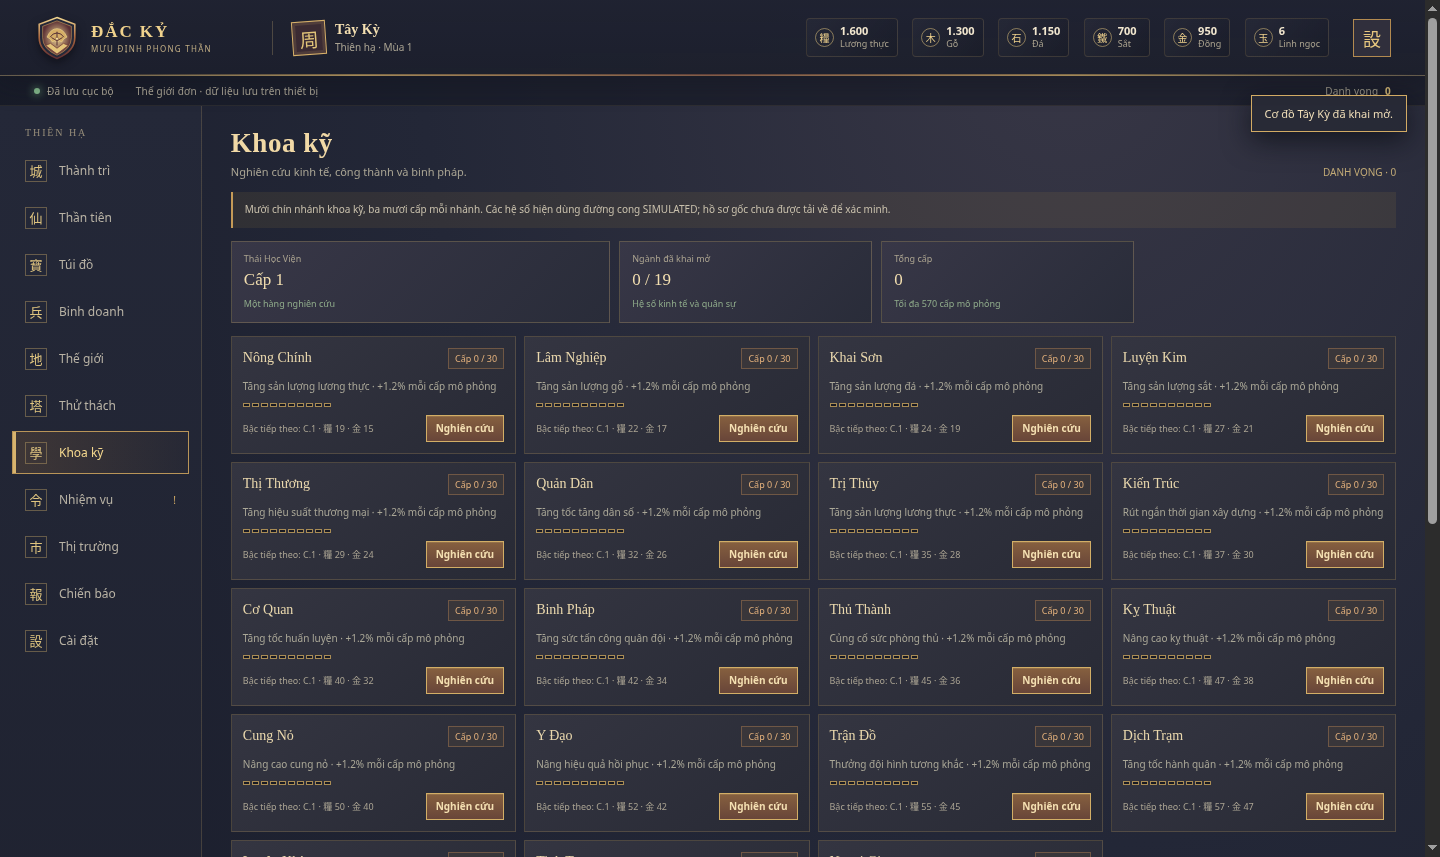
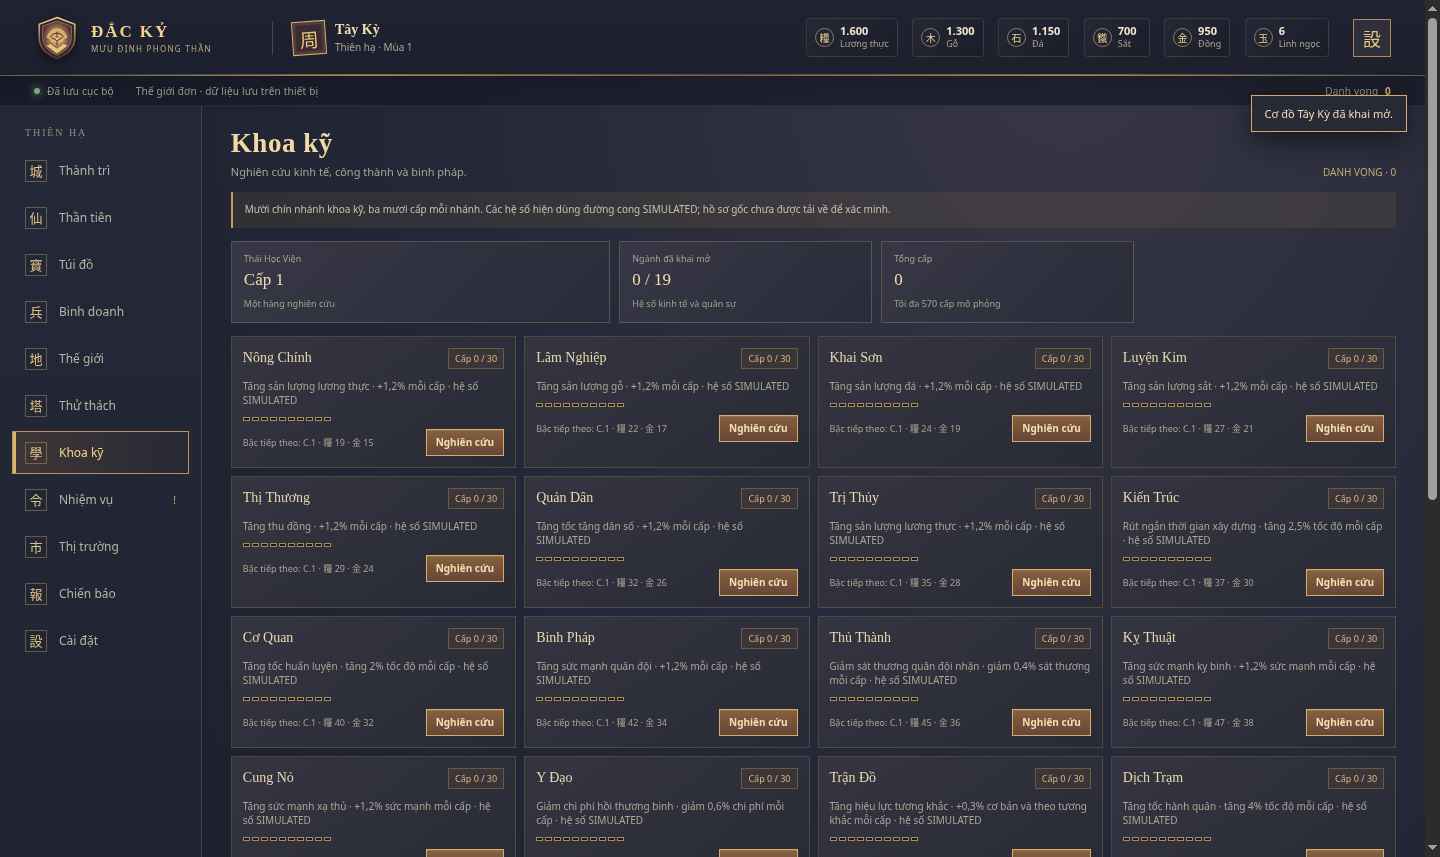
Apply research branches to Dacky gameplay

diff --git a/DackyMobile/src/engine.js b/DackyMobile/src/engine.js
@@ -157,7 +157,7 @@ export function productionPerHour(state) {
     timber: (10 + lv.grove * 38 + lv.lumber * 12 + satelliteCount*18) * bonus('timber'),
     stone: (8 + lv.mine * 34 + lv.quarry * 10 + satelliteCount*14) * bonus('stone'),
     iron: (5 + lv.foundryfield * 28 + lv.foundry * 9 + satelliteCount*12) * bonus('iron'),
-    gold: (10 + lv.market * 25 + satelliteCount*8 + Math.floor(state.population * (0.035 + lv.citadel * 0.002)) + (tech['tech-05'] || 0) * 2) * TAX_POLICIES[state.taxPolicy||'balanced'].income,
+    gold: (10 + lv.market * 25 + satelliteCount*8 + Math.floor(state.population * (0.035 + lv.citadel * 0.002))) * bonus('gold') * TAX_POLICIES[state.taxPolicy||'balanced'].income,
     jade: 0.12 + lv.altar * 0.12 + lv.manor * 0.025
   };
 }
@@ -172,7 +172,8 @@ export function heroPower(hero, state) {
   const def = HEROES.find(h => h.id === hero.id);
   if (!def) return 0;
   const gear = Object.values(hero.equipment || {}).filter(Boolean).reduce((sum, id) => sum + (ITEMS.find(item => item.id === id)?.bonus || 0), 0);
-  return Math.round((def.attack + def.defense + def.wisdom * 0.72 + gear) * (1 + hero.level * 0.14) * (1 + hero.skillLevel * 0.035));
+  const research=1+(state.technologies?.['tech-17']||0)*0.012;
+  return Math.round((def.attack + def.defense + def.wisdom * 0.72 + gear) * (1 + hero.level * 0.14) * (1 + hero.skillLevel * 0.035) * research);
 }
 
 function awardHeroXp(hero, amount) {
@@ -206,7 +207,10 @@ export function armyPower(state, counts = state.army) {
   let total = 0;
   for (const [id, amount] of Object.entries(counts)) {
     const t = TROOPS.find(x => x.id === id);
-    if (t) total += amount * (t.attack + t.defense * 0.85 + t.morale * 0.08) * (1 + (state.technologies['tech-10'] || 0) * 0.012);
+    if (t) {
+      const specialization=t.role==='kỵ binh'?(state.technologies['tech-12']||0):t.role==='xạ thủ'?(state.technologies['tech-13']||0):0;
+      total += amount * (t.attack + t.defense * 0.85 + t.morale * 0.08) * (1 + (state.technologies['tech-10'] || 0) * 0.012) * (1+specialization*0.012);
+    }
   }
   return Math.round(total + state.heroes.filter(h => h.assigned).reduce((sum, h) => sum + heroPower(h, state), 0) * 0.45);
 }
@@ -328,7 +332,8 @@ function resolveArmyCombat(state, node, troops, seed) {
   const total = troopRows.reduce((n, row) => n + row.count, 0);
   const roles = troopRows.map(row => row.unit.role);
   const countered = troopRows.filter(row => roles.includes(row.unit.counter)).length;
-  const formationBonus = countered ? 1 + Math.min(0.2, countered * 0.025) : 1;
+  const formationTech=state.technologies['tech-15']||0;
+  const formationBonus=1+Math.min(0.42,formationTech*0.003+countered*(0.025+formationTech*0.003));
   const heroBonus = heroList.reduce((n, h) => n + heroPower(h, state), 0) * 0.55;
   const ownPower = Math.max(1, armyPower(state, troops) * formationBonus + heroBonus);
   const treatyBonus=state.world.treaties.includes(node.id)?0.88:1;
@@ -341,7 +346,8 @@ function resolveArmyCombat(state, node, troops, seed) {
   while (ownHealth > 0 && enemyHealth > 0 && round < 6) {
     round++;
     const ownDamage = Math.max(1, ownPower * (0.19 + rng() * 0.11) * (1+heroProfile.bonuses.attack+(round===1?heroProfile.bonuses.opening:0)) * (round === 1 && initiative > 10 ? 1.13 : 1));
-    const enemyDamage = Math.max(1, enemyPower * (0.17 + rng() * 0.12) * (1-heroProfile.bonuses.defense) * (round === 1 && initiative < 6 ? 1.12 : 1));
+    const researchDefense=Math.min(0.12,(state.technologies['tech-11']||0)*0.004);
+    const enemyDamage = Math.max(1, enemyPower * (0.17 + rng() * 0.12) * Math.max(0.55,1-heroProfile.bonuses.defense-researchDefense) * (round === 1 && initiative < 6 ? 1.12 : 1));
     enemyHealth -= ownDamage;
     ownHealth -= enemyDamage;
     rounds.push({ round, ownDamage: Math.round(ownDamage), enemyDamage: Math.round(enemyDamage), ownMorale: Math.max(0, Math.round(ownHealth / ownPower * 100)) });
@@ -420,7 +426,8 @@ export function advance(state, now = Date.now()) {
       next.resources[key] = clamp(next.resources[key] + (perHour[key] - upkeepPerHour) * elapsed / 3600, 0, key === 'jade' ? 99_999 : cap);
     }
     const hours=elapsed/3600;
-    next.population = Math.min(250_000, next.population + hours * (0.1 + next.morale/450 + next.levels.citadel * 0.11));
+    const populationResearch=1+(next.technologies['tech-06']||0)*0.012;
+    next.population = Math.min(250_000, next.population + hours * (0.1 + next.morale/450 + next.levels.citadel * 0.11) * populationResearch);
     next.morale=clamp(next.morale+hours*TAX_POLICIES[next.taxPolicy].moralePerHour,0,100);
     next.world.marketDay += elapsed / 86_400;
   }
@@ -636,7 +643,8 @@ export function doAction(state, action, now = Date.now()) {
       const injured = Object.values(s.wounded).reduce((n, x) => n + x, 0);
       if (!injured) throw new Error('Không có quân bị thương cần hồi phục.');
       const count = Math.min(injured, clamp(Math.floor(Number(action.count) || injured), 1, injured));
-      const cost = { food: Math.max(1,Math.floor(count * 8 * (1-Math.min(0.45,(s.levels.clinic||0)*0.015)))), gold: Math.max(1,Math.floor(count * 2 * (1-Math.min(0.35,(s.levels.clinic||0)*0.01)))) };
+      const healingResearch=Math.min(0.18,(s.technologies['tech-14']||0)*0.006);
+      const cost = { food: Math.max(1,Math.floor(count * 8 * Math.max(0.35,1-Math.min(0.45,(s.levels.clinic||0)*0.015)-healingResearch))), gold: Math.max(1,Math.floor(count * 2 * Math.max(0.45,1-Math.min(0.35,(s.levels.clinic||0)*0.01)-healingResearch*0.7))) };
       debit(s, cost);
       let remaining = count;
       for (const [id, n] of Object.entries(s.wounded)) {
@@ -693,7 +701,8 @@ export function doAction(state, action, now = Date.now()) {
     case 'scout': {
       const node = WORLD_NODES.find(n => n.id === action.nodeId);
       if (!node) throw new Error('Không tìm thấy địa điểm.');
-      debit(s, { gold: Math.max(4,12 + node.chapter * 3 - (s.levels.watch||0)) });
+      const scoutBaseCost=Math.max(4,12+node.chapter*3-(s.levels.watch||0));
+      debit(s,{gold:Math.max(2,Math.ceil(scoutBaseCost*(1-Math.min(0.36,(s.technologies['tech-18']||0)*0.012))))});
       if (!s.world.scouted.includes(node.id)) s.world.scouted.push(node.id);
       note(s, `Thám báo đã ghi nhận lực lượng khoảng ${Math.floor(node.power / 10) * 10} tại ${node.name}.`);
       break;

diff --git a/DackyMobile/tests/engine.test.js b/DackyMobile/tests/engine.test.js
@@ -1,7 +1,7 @@
 import test from 'node:test';
 import assert from 'node:assert/strict';
-import { advance, createNewGame, doAction, migrateSave, productionPerHour, questProgress, storageCapacity } from '../src/engine.js';
-import { HEROES, IMMORTAL_MOUNTAINS, ITEMS, QUESTS, WORLD_NODES } from '../src/catalog.js';
+import { advance, armyPower, createNewGame, doAction, heroPower, migrateSave, productionPerHour, questProgress, storageCapacity } from '../src/engine.js';
+import { HEROES, IMMORTAL_MOUNTAINS, ITEMS, QUESTS, TECHNOLOGIES, TROOPS, WORLD_NODES } from '../src/catalog.js';
 
 test('new save has a bounded, offline-first settlement', () => {
   const now = 1_800_000_000_000;
@@ -29,6 +29,113 @@ test('tax policy balances gold income, morale and population growth', () => {
   assert.ok(reliefRest.morale>state.morale);
   assert.ok(reliefRest.population>state.population);
   assert.throws(()=>doAction(state,{type:'setTaxPolicy',policy:'free-money'},now+1),/chính sách thuế/);
+});
+
+test('completed academy research changes the linked economy', () => {
+  const now=1_800_000_000_000;
+  let state=createNewGame('Triều Ca',now);
+  state.levels.academy=1;
+  const goldBefore=productionPerHour(state).gold;
+  state=doAction(state,{type:'research',techId:'tech-05'},now+1);
+  const finish=state.queues.research.finishAt;
+  state=advance(state,finish+1).state;
+  assert.equal(state.technologies['tech-05'],1);
+  assert.ok(productionPerHour(state).gold>goldBefore);
+  assert.equal(state.queues.research,null);
+  assert.equal(TECHNOLOGIES.length,19);
+  for(const [techId,resource] of [['tech-01','food'],['tech-02','timber'],['tech-03','stone'],['tech-04','iron'],['tech-07','food']]){
+    const isolated=createNewGame('Triều Ca',now);
+    const before=productionPerHour(isolated)[resource];
+    isolated.technologies[techId]=1;
+    assert.ok(productionPerHour(isolated)[resource]>before,`${techId} must improve ${resource}`);
+  }
+});
+
+test('specialized research improves troops, heroes, healing, scouting and combat', () => {
+  const now=1_800_000_000_000;
+  const base=createNewGame('Triều Ca',now);
+  const cavalry=TROOPS.find(t=>t.role==='kỵ binh').id;
+  const archers=TROOPS.find(t=>t.role==='xạ thủ').id;
+  const cavalryState=structuredClone(base);
+  cavalryState.army={[cavalry]:100};
+  const cavalryPower=armyPower(cavalryState);
+  cavalryState.technologies['tech-12']=10;
+  assert.ok(armyPower(cavalryState)>cavalryPower);
+  const archerState=structuredClone(base);
+  archerState.army={[archers]:100};
+  const archerPower=armyPower(archerState);
+  archerState.technologies['tech-13']=10;
+  assert.ok(armyPower(archerState)>archerPower);
+  const generalArmy=structuredClone(cavalryState);
+  generalArmy.technologies['tech-12']=0;const noGeneral=armyPower(generalArmy);
+  generalArmy.technologies['tech-10']=10;
+  assert.ok(armyPower(generalArmy)>noGeneral);
+  const heroBaseline=heroPower(base.heroes[0],base);
+  const heroResearch=structuredClone(base);
+  heroResearch.technologies['tech-17']=10;
+  assert.ok(heroPower(base.heroes[0],heroResearch)>heroBaseline);
+
+  const makeBattle=(techId,level=0)=>{
+    let state=structuredClone(base);
+    state.army={'troop-01':1000,'troop-10':100};
+    if(techId)state.technologies[techId]=level;
+    state=doAction(state,{type:'march',nodeId:'node-001',troops:{'troop-01':500,'troop-10':100}},now+1);
+    return advance(state,state.queues.march.finishAt+1).state.reports[0];
+  };
+  const unresearched=makeBattle(null);
+  assert.ok(makeBattle('tech-11',10).rounds[0].enemyDamage<unresearched.rounds[0].enemyDamage);
+  assert.ok(makeBattle('tech-15',10).ownPower>unresearched.ownPower);
+
+  const heal=(level)=>{
+    const state=structuredClone(base);
+    state.resources.food=5000;state.resources.gold=5000;
+    state.wounded={'troop-01':100};state.technologies['tech-14']=level;
+    const before=state.resources.food;
+    const result=doAction(state,{type:'heal'},now+1);
+    return before-result.resources.food;
+  };
+  assert.ok(heal(10)<heal(0));
+  const scout=(level)=>{
+    const state=structuredClone(base);
+    state.technologies['tech-18']=level;
+    const before=state.resources.gold;
+    const result=doAction(state,{type:'scout',nodeId:'node-001'},now+1);
+    return before-result.resources.gold;
+  };
+  assert.ok(scout(10)<scout(0));
+
+  const trained=(level)=>{
+    const state=structuredClone(base);
+    state.technologies['tech-09']=level;
+    return doAction(state,{type:'train',troopId:'troop-01',count:1},now+1).queues.training.finishAt;
+  };
+  assert.ok(trained(10)<trained(0));
+
+  const population=(level)=>{
+    const state=structuredClone(base);state.technologies['tech-06']=level;
+    return advance(state,now+60*60*1000).state.population;
+  };
+  assert.ok(population(10)>population(0));
+  const construction=(level)=>{
+    const state=structuredClone(base);state.technologies['tech-08']=level;
+    return doAction(state,{type:'upgrade',buildingId:'lumber'},now+1).queues.construction.finishAt;
+  };
+  assert.ok(construction(10)<construction(0));
+  const researchSpeed=(level)=>{
+    const state=structuredClone(base);state.levels.academy=1;state.technologies['tech-08']=level;
+    return doAction(state,{type:'research',techId:'tech-05'},now+1).queues.research.finishAt;
+  };
+  assert.ok(researchSpeed(10)<researchSpeed(0));
+  const march=(level)=>{
+    const state=structuredClone(base);state.army={'troop-01':1000};state.technologies['tech-16']=level;
+    return doAction(state,{type:'march',nodeId:'node-001',troopId:'troop-01',count:500},now+1).queues.march.finishAt;
+  };
+  assert.ok(march(10)<march(0));
+  const trade=(level)=>{
+    const state=structuredClone(base);state.technologies['tech-19']=level;
+    return doAction(state,{type:'trade',from:'food',to:'gold',amount:1000},now+1).resources.gold;
+  };
+  assert.ok(trade(10)>trade(0));
 });
 
 test('construction and training are queued and settle once', () => {

diff --git a/DackyMobile/src/ui.js b/DackyMobile/src/ui.js
@@ -198,8 +198,9 @@ function techScreen(state) {
   const cards = TECHNOLOGIES.map(t=>{
     const level = state.technologies[t.id]||0;
     const quote = quoteResearch(state,t.id);
-    const effectText = ({food:'Tăng sản lượng lương thực',timber:'Tăng sản lượng gỗ',stone:'Tăng sản lượng đá',iron:'Tăng sản lượng sắt',gold:'Tăng hiệu suất thương mại',population:'Tăng tốc tăng dân số',build:'Rút ngắn thời gian xây dựng',training:'Tăng tốc huấn luyện',attack:'Tăng sức tấn công quân đội',defense:'Củng cố sức phòng thủ',cavalry:'Nâng cao kỵ thuật',archer:'Nâng cao cung nỏ',healing:'Nâng hiệu quả hồi phục',formation:'Thưởng đội hình tương khắc',march:'Tăng tốc hành quân',hero:'Tăng năng lực thần tiên',scout:'Mở rộng trinh sát',diplomacy:'Tạo lợi thế với NPC'}[t.effect]||t.name);
-    return `<article class="tech-card"><div class="tech-card-top"><h3>${esc(t.name)}</h3><span class="tag simulated">Cấp ${level} / 30</span></div><p class="tiny muted">${effectText} · +1.2% mỗi cấp mô phỏng</p><div class="level-dots">${Array.from({length:10},(_,i)=>`<i class="${level>i*3?'on':''}"></i>`).join('')}</div><div class="tech-card-top"><span class="progress-note">Bậc tiếp theo: ${quote.maxed?'tối đa':`C.${quote.level} · ${costText(quote.cost)}`}</span>${button('research','Nghiên cứu',!!state.queues.research||quote.maxed||!isAffordable(state,quote.cost),'button small','data-tech="'+t.id+'"')}</div></article>`;
+    const effectText = ({food:'Tăng sản lượng lương thực',timber:'Tăng sản lượng gỗ',stone:'Tăng sản lượng đá',iron:'Tăng sản lượng sắt',gold:'Tăng thu đồng',population:'Tăng tốc tăng dân số',build:'Rút ngắn thời gian xây dựng',training:'Tăng tốc huấn luyện',attack:'Tăng sức mạnh quân đội',defense:'Giảm sát thương quân đội nhận',cavalry:'Tăng sức mạnh kỵ binh',archer:'Tăng sức mạnh xạ thủ',healing:'Giảm chi phí hồi thương binh',formation:'Tăng hiệu lực tương khắc',march:'Tăng tốc hành quân',hero:'Tăng lực chiến thần tiên',scout:'Giảm phí trinh sát',diplomacy:'Giảm phí và tăng tỷ lệ ngoại giao'}[t.effect]||t.name);
+    const rateText=({gold:'· +1,2% mỗi cấp',population:'· +1,2% mỗi cấp',build:'· tăng 2,5% tốc độ mỗi cấp',training:'· tăng 2% tốc độ mỗi cấp',defense:'· giảm 0,4% sát thương mỗi cấp',cavalry:'· +1,2% sức mạnh mỗi cấp',archer:'· +1,2% sức mạnh mỗi cấp',healing:'· giảm 0,6% chi phí mỗi cấp',formation:'· +0,3% cơ bản và theo tương khắc mỗi cấp',march:'· tăng 4% tốc độ mỗi cấp',hero:'· +1,2% lực chiến mỗi cấp',scout:'· giảm 1,2% phí mỗi cấp',diplomacy:'· -0,1% phí giao thương; +0,8% ngoại giao mỗi cấp'}[t.effect]||'· +1,2% mỗi cấp');
+    return `<article class="tech-card"><div class="tech-card-top"><h3>${esc(t.name)}</h3><span class="tag simulated">Cấp ${level} / 30</span></div><p class="tiny muted">${effectText} ${rateText} · hệ số SIMULATED</p><div class="level-dots">${Array.from({length:10},(_,i)=>`<i class="${level>i*3?'on':''}"></i>`).join('')}</div><div class="tech-card-top"><span class="progress-note">Bậc tiếp theo: ${quote.maxed?'tối đa':`C.${quote.level} · ${costText(quote.cost)}`}</span>${button('research','Nghiên cứu',!!state.queues.research||quote.maxed||!isAffordable(state,quote.cost),'button small','data-tech="'+t.id+'"')}</div></article>`;
   }).join('');
   return `<div class="hint" style="margin-bottom:10px">Mười chín nhánh khoa kỹ, ba mươi cấp mỗi nhánh. Các hệ số hiện dùng đường cong SIMULATED; hồ sơ gốc chưa được tải về để xác minh.</div><div class="city-overview"><div class="overview-card"><span class="label">Thái Học Viện</span><strong>Cấp ${state.levels.academy||0}</strong><small>Một hàng nghiên cứu</small></div><div class="overview-card"><span class="label">Ngành đã khai mở</span><strong>${Object.values(state.technologies).filter(x=>x>0).length} / 19</strong><small>Hệ số kinh tế và quân sự</small></div><div class="overview-card"><span class="label">Tổng cấp</span><strong>${fmt(Object.values(state.technologies).reduce((a,n)=>a+n,0))}</strong><small>Tối đa 570 cấp mô phỏng</small></div></div><div class="tech-grid">${cards}</div><div class="divider"></div>${queuePanel(state,Date.now())}`;
 }

diff --git a/DackyMobile/PROGRESS.md b/DackyMobile/PROGRESS.md
@@ -4,16 +4,17 @@ Cập nhật: 2026-11-24 · Nhánh: feature/dacky-mobile-complete-20261124
 
 ## Checkpoint
 
-- HEAD lúc bắt đầu: 4023325d441a7f818f7346586b1ee6e19943a5cc (origin/feature/dacky-mobile-complete-20261124). Checkpoint đầu lô trước: 319480ff27224f26c6d6283bbc7fd738dd3b520f; working tree sạch tại lúc tạo checkpoint.
+- HEAD lúc bắt đầu: 4023325d441a7f818f7346586b1ee6e19943a5cc (origin/feature/dacky-mobile-complete-20261124). Checkpoint đầu lô trước: 319480ff27224f26c6d6283bbc7fd738dd3b520f; batch kế tiếp bắt đầu từ bc8b3bc6e6fe91e2f15e2e73114f438ce26f6fe3.
 - Codebase web độc lập, offline-first: thành trì, sáu tài nguyên, 21 công trình tới cấp 30, sản xuất theo giờ, queue xây/nghiên cứu/huấn luyện/hành quân, 39 binh chủng mô phỏng, đủ 540 thần tiên mô phỏng, túi đồ/rèn, khoa kỹ, 1.158 nhiệm vụ, 120 địa điểm chiến dịch có Boss Trụ Vương và 624 Tiên Sơn thử thách riêng, chiến báo, Phong Thần Tháp và 5 cửa Bất Chu.
 - Chiến dịch mô phỏng có 8 chương, 1.158 mục tiêu, mở Boss Trụ Vương sau 20 thắng/7 thành; thắng đầu lưu cờ kết cục, thưởng duy nhất và cho phép tiếp tục endgame.
 - Gameplay loop đã nối: nâng công trình → huấn luyện/chiêu mộ/trang bị → hành quân nhiều stack → combat/tổn thất/loot → nâng cấp/nhiệm vụ → save/reload. Capture thành phụ, sản lượng bổ sung, minh hội NPC và minh ước NPC có runtime. Mô hình gameplay là độc lập `SIMULATED`, chưa đối chiếu client Mobile.
 - Giao diện responsive tiếng Việt, bản đồ tương tác, vector art SVG tự tạo, IndexedDB + localStorage dự phòng, import/export save, PWA/service worker, build Web static, một file offline và database JSON chuẩn hóa có thể tái sinh từ cùng catalog (4.676 record mô phỏng).
 - Lô hiện tại nối 540 vật phẩm tiêu hao vào cửa hàng NPC, giới hạn túi 500, hiệu ứng mua/dùng và lưu số lượt mua; XP tự lên nhiều cấp và tăng kỹ năng; bốn pháp môn có hiệu lực trong combat/PvE; ba chính sách thuế điều chỉnh đồng, dân tâm và tăng dân số.
+- Khoa kỹ 19 nhánh/570 cấp nay tác động vào kinh tế, xây dựng, huấn luyện, quân chuyên môn, combat, hồi phục, hành quân, thần tiên, trinh sát và giao thương/ngoại giao.
 
 ## Kiểm chứng thực tế
 
-- `npm test`: PASS 14/14 engine tests, gồm catalog, Tiên Sơn/Boss, mua/dùng vật phẩm, XP-kỹ năng, pháp môn combat và thuế/dân tâm.
+- `npm test`: PASS 16/16 engine tests, gồm catalog, Tiên Sơn/Boss, mua/dùng vật phẩm, XP-kỹ năng, pháp môn combat, 19 nhánh khoa kỹ và thuế/dân tâm.
 - `npm run build`: PASS; build Web, `dist/offline.html` và `dist/data/dacky-game-data.simulated.v1.json`; kiểm tra JSON xác nhận 4.676 record SIMULATED trên 8 bảng.
 - Chromium integration: PASS onboarding, 21 công trình, 11 màn hình, đổi chính sách thuế, phân trang/mua vật phẩm, nâng công trình, chiêu mộ, trang bị, huấn luyện, hành quân nhiều stack, loot/chiến báo, IndexedDB reload, viewport 390×844 và 844×390; 0 lỗi console/runtime. Ảnh ở `qa/screenshots/`.
 - PWA: PASS mở lại entrypoint khi tắt mạng và shell đã được cache.
@@ -32,7 +33,7 @@ Cập nhật: 2026-11-24 · Nhánh: feature/dacky-mobile-complete-20261124
 
 ## Bước tiếp theo
 
-1. Tiếp tục nối hiệu lực 19 nhánh khoa kỹ vào từng hệ thống chiến đấu/kinh tế, rồi hoàn thiện vòng lặp thành trì và endgame; thông số không có nguồn phải mang nhãn `SIMULATED`.
+1. Hoàn thiện hướng dẫn tân thủ, điều kiện mở khóa và quản lý thành phụ; nối kinh tế/campaign theo nhịp tiến triển đầu đến cuối game.
 2. Khi có Android SDK/Gradle, tạo project Capacitor native, build/cài APK và kiểm tra luồng cốt lõi.
 3. Khi dữ liệu nguồn được cung cấp hoặc proxy cho phép, xác minh Mobile riêng, nhập dữ liệu hợp pháp và cập nhật `DATA_COVERAGE.json`.
 4. Giữ nhánh feature/dacky-mobile-complete-20261124 làm checkpoint hiện tại. Tiếp tục bằng các mục P0–P7 còn mở; không merge, không force-push, không đụng Heroes/Mưu Định Tam Quốc.

diff --git a/DackyMobile/docs/GAMEPLAY_WIKI.md b/DackyMobile/docs/GAMEPLAY_WIKI.md
@@ -21,6 +21,8 @@ Tử Vi Thành quản lý cấp thành, dân số và mở khóa. Hai mươi cô
 
 Chính sách thuế có ba mức mô phỏng: khoan giảm tạo 75% đồng cơ sở và phục hồi 0,12 dân tâm/giờ; trung dung là mức chuẩn; thuế nặng tạo 130% đồng nhưng giảm 0,24 dân tâm/giờ. Dân tâm và cấp Tử Vi Thành cùng điều chỉnh tốc độ tăng dân số. Chính sách được lưu và vẫn áp dụng trong tiến trình offline.
 
+Thái Học Viện có 19 nhánh, mỗi nhánh 30 cấp. Nông/Lâm/Khai Sơn/Luyện Kim và Trị Thủy tăng sản xuất; Thị Thương tăng thu đồng; Quản Dân tăng dân số; Kiến Trúc, Cơ Quan và Binh Pháp rút ngắn thời gian xây, huấn luyện và tăng lực quân. Thủ Thành, Kỵ Thuật, Cung Nỏ, Y Đạo, Trận Đồ, Dịch Trạm, Luyện Khí, Tinh Tượng và Ngoại Giao lần lượt thay đổi phòng thủ, nhóm quân, hồi phục, tương khắc, hành quân, thần tiên, do thám và phí/tỷ lệ giao thương với NPC. Mọi hệ số là SIMULATED.
+
 Thương nhân vật phẩm bán 540 món tiêu hao mô phỏng theo 23 trang. Túi chứa tối đa 500 món; món bậc 8 trở lên cần thêm linh ngọc. Bốn pháp môn đội hình lần lượt tăng sát thương, giảm sát thương nhận vào, tăng đòn mở đầu và sức bền; XP từ tu luyện, tiêu hao hoặc PvE tự tính cấp mới và mốc kỹ năng.
 
 ## Thần tiên và túi đồ

diff --git a/DackyMobile/DECISIONS.md b/DackyMobile/DECISIONS.md
@@ -23,3 +23,4 @@
 - XP từ tu luyện, vật phẩm và PvE dùng chung ngưỡng lên cấp, có thể tăng nhiều cấp trong một lần; kỹ năng tăng mỗi khi thần tiên đạt mốc cấp chia hết cho bốn.
 - Bốn pháp môn đội hình áp dụng hệ số SIMULATED cụ thể vào combat quân đội và thử thách thần tiên; chiến báo ghi lại pháp môn đã tham chiến.
 - Thuế khoan giảm / trung dung / nặng thay đổi thu đồng, độ trôi dân tâm và tốc độ dân số; save cũ được migration về trung dung.
+- Cả 19 nhánh khoa kỹ có hiệu ứng runtime: bốn tài nguyên, tăng dân số, xây/nghiên cứu/huấn luyện, tấn công/phòng thủ và chuyên môn kỵ/xạ, hồi thương, tương khắc, hành quân, lực chiến thần tiên, phí trinh sát và giao thương/ngoại giao. Các hệ số hiển thị đúng theo nhánh và đều SIMULATED.
